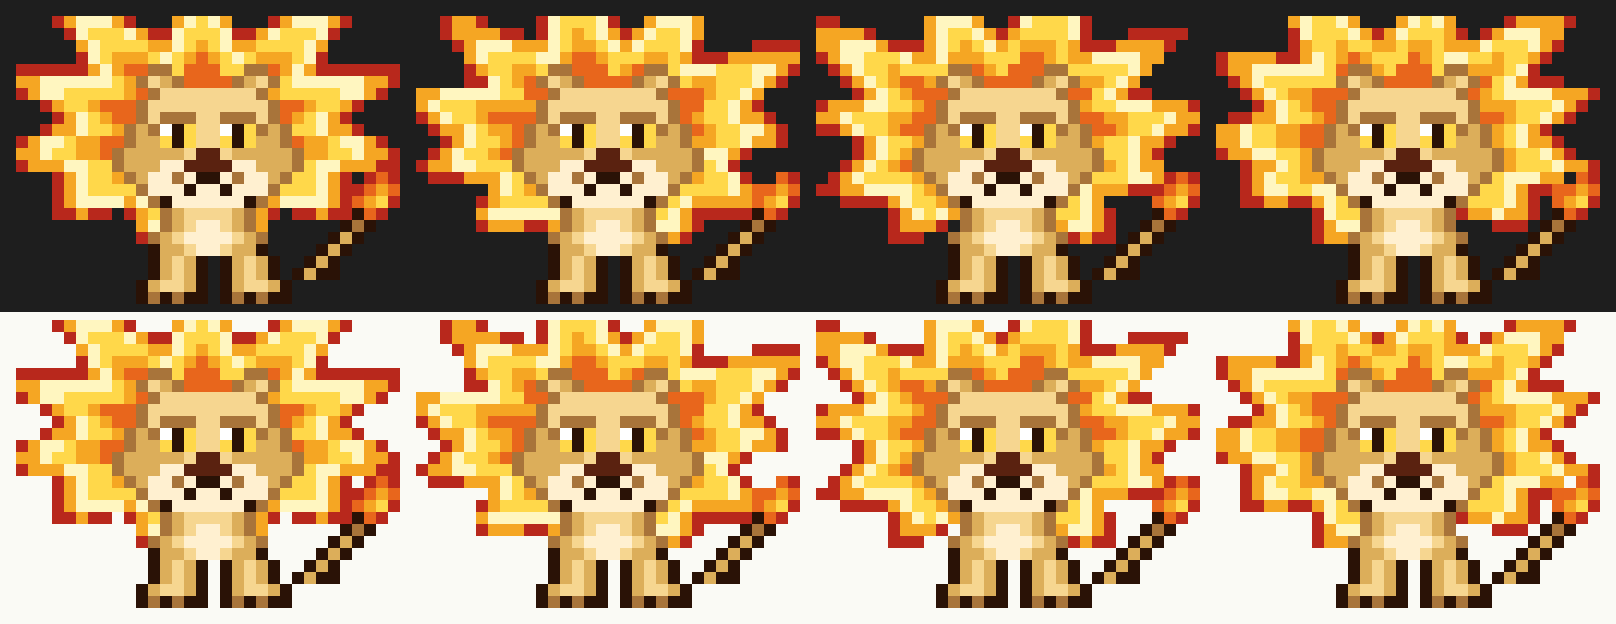
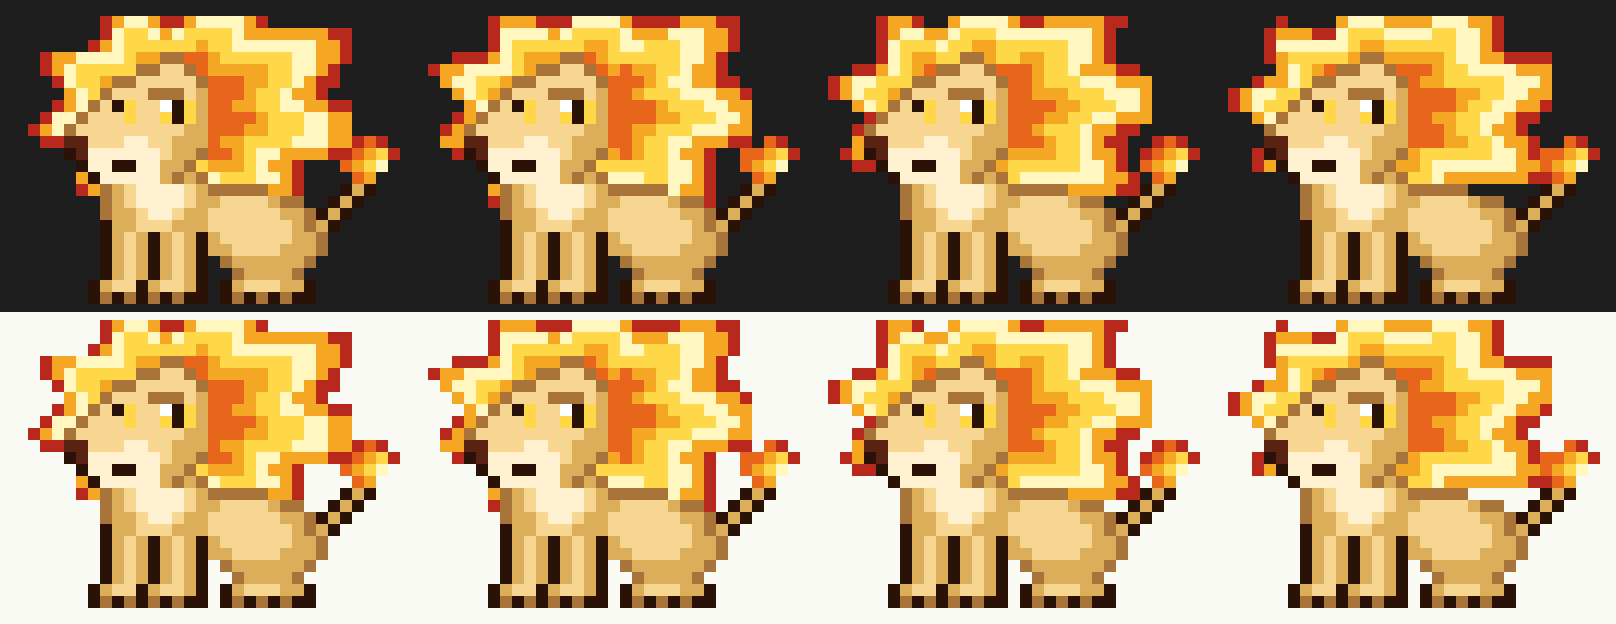
P2-16: raise the proposed limit to 48×48; evidence uses the 3/4 Sunmane

diff --git a/docs/decisions/0021-sprites-up-to-48x48.md b/docs/decisions/0021-sprites-up-to-48x48.md
@@ -1,4 +1,4 @@
-# 0021 — Sprites up to 32×24; the compact band shows when they don't fit
+# 0021 — Sprites up to 48×48; the compact band shows when they don't fit
 
 - **Status:** Proposed — settled by @danielpg95 (amends 0012 point 5)
 - **Date:** 2026-10-10
@@ -17,6 +17,9 @@ lion at 32×24 read as a lion, with a flame mane that animates well
 ([24×12](0021/sunmane-24x12.png), [32×24](0021/sunmane-32x24.png)). An earlier
 attempt (Cragmaw, a large armored beast) failed at 24×12 for the same reason.
 
+@victor-aguilars doesn't want the size to limit what Modsters can be, so this
+proposes a generous cap rather than the smallest one that fixed Sunmane.
+
 Two things make a bigger limit cheap now:
 
 - 0012 already picks the band layout by fit at draw time (points 6–8). A sprite
@@ -29,11 +32,13 @@ Two things make a bigger limit cheap now:
 
 Size:
 
-1. **32×24.** Tested with Sunmane. 12 terminal rows, fits the full band from
-   about 120×40.
-2. **32×32.** Room for tall creatures, but 16 rows, more than most panes show.
-3. **48×24.** Very wide creatures, but 48 columns plus the text block rarely
-   fits beside it.
+1. **32×24.** Tested with Sunmane. 12 terminal rows, so it fits the full band
+   from about 120×40.
+2. **48×24.** Very wide creatures. Fits the band from about 120×40, if the
+   width allows the text block beside it.
+3. **48×48.** The most room: tall and wide creatures. 24 terminal rows, more
+   than any band measured (15 at 140×40), so these always show the compact
+   band and appear as pictures only in the panes.
 
 Where a big sprite doesn't fit:
 
@@ -48,29 +53,37 @@ Who may use them: any Modster, built-in only, or built-in legendaries only.
 
 ## Decision
 
-1. **Sprites may be 8–32 px wide and 8–24 px tall, height even.** This replaces
-   the bounds in 0012 point 5. A 24 px sprite uses 12 terminal rows.
+1. **Sprites may be 8–48 px wide and 8–48 px tall, height even.** This replaces
+   the bounds in 0012 point 5. A 48 px sprite uses 24 terminal rows.
 2. **Layouts are unchanged.** 0012 points 6–8 choose by fit at every draw: the
    full layout when `ceil(height / 2) ≤ maxRows` and the sprite, the gap and the
-   text block fit the width; otherwise the compact text layout. In an 80×24 band
-   (7 rows), a sprite taller than 14 px shows the compact layout. The encounter
-   pane uses the same rule (0015 point 1).
+   text block fit the width; otherwise the compact text layout. The encounter
+   pane uses the same rule (0015 point 1) with its body rows minus its header.
+   For example:
+   - At 80×24 (7 band rows), sprites up to 14 px tall show in the band.
+   - At 140×40 (15 band rows), sprites up to 30 px tall show in the band.
+   - A 48 px tall sprite never shows in the band; the pane needs about 26 body
+     rows for it.
 3. **Any Modster may use the bigger size,** built-in or user content, with the
    same rules. User PNG sheets (0016) follow the same bounds.
 4. **No second sprite.** A Modster has one sprite; where it doesn't fit, the
    compact text layout shows.
 5. **Small stays the default.** Content guidance (the `add-modster` skill)
-   recommends ≤ 24×12 so the sprite shows in the band of an 80×24 terminal, and
-   the bigger size for Modsters that need it, such as legendaries.
+   recommends ≤ 24×12 so the sprite shows in the band of an 80×24 terminal. It
+   suggests bigger sizes for Modsters that need them, such as legendaries, and
+   says where each size shows.
 6. `schemaVersion` stays `1`: every existing sprite stays valid.
 
 ## Consequences
 
 - New roadmap task P2-16: `CONTENT.sprite` bounds, which drive the validator,
-  the converter (`tools/sprite.mjs`) and the PNG decoder (0016). It adds tests
-  for a 32×24 sprite: valid, converted, the compact band at `maxRows` 7, the
-  full band at 15, and full size in the encounter pane. CONTENT_FORMAT.md and
-  the `add-modster` skill change too.
-- In small terminals, a big Modster shows no picture in the band. Players who
-  want to see it can open the encounter pane (`/modsters hunt`).
+  the converter (`tools/sprite.mjs`) and the PNG decoder (0016). Tests cover a
+  48×48 sprite: valid and converted; the compact band at `maxRows` 7 and 15;
+  full size in a pane with enough rows; compact in a shorter pane.
+  CONTENT_FORMAT.md and the `add-modster` skill change too.
+- The biggest Modsters are seen only by players who open the encounter pane
+  (`/modsters hunt`) in a tall terminal; everyone else sees the compact band.
+- Animation repaints more cells (48×24 per frame instead of 24×6). P1-03
+  measured smooth blits at 6–12 fps for small sprites; P2-16 checks a 48×48
+  sprite at 8 fps by hand.
 - If accepted, 0012's status line becomes "Accepted (amended by 0021)".

diff --git a/docs/ROADMAP.md b/docs/ROADMAP.md
@@ -253,14 +253,16 @@ Goal: a complete, fun encounter loop with starter content. No customization yet.
   - [ ] `session.start` and `classic.SessionStart` reopen the pane when `open` is true, without focus; tested, including an unplaced pane (band keeps the encounter).
 
 
-#### [ ] P2-16 — Sprites up to 32×24
+#### [ ] P2-16 — Sprites up to 48×48
 - **Depends on:** P2-01, P2-02, P2-07, P4-01
 - **Size:** S
-- **Goal:** decision 0021 (Proposed; start only once @danielpg95 accepts it): sprites may be 8–32 wide and 8–24 tall, and the band shows its compact layout where they don't fit.
+- **Goal:** decision 0021 (Proposed; start only once @danielpg95 accepts it): sprites may be 8–48 wide and 8–48 tall, and the band and pane show their compact layout where a sprite doesn't fit.
 - **Done when:**
-  - [ ] `CONTENT.sprite` bounds are 8–32 × 8–24; the validator, `tools/sprite.mjs` and user PNG sheets accept a 32×24 sprite and reject 34×24 and 32×26 (tests).
-  - [ ] Render tests: a 32×24 sprite shows the compact band at `maxRows` 7, the full band at 15, and full size in the encounter pane.
-  - [ ] CONTENT_FORMAT.md and the `add-modster` skill describe the new bounds and recommend ≤ 24×12 unless a Modster needs more.
+  - [ ] `CONTENT.sprite` bounds are 8–48 × 8–48; the validator, `tools/sprite.mjs` and user PNG sheets accept a 48×48 sprite and reject 50×48 and 48×50 (tests).
+  - [ ] Render tests: a 48×48 sprite shows the compact band at `maxRows` 7 and 15, full size in a pane with 26 body rows, and compact in a shorter pane.
+  - [ ] A 48×48 sprite animates at 8 fps without flicker in a real terminal (checked by hand, noted in the handoff).
+  - [ ] CONTENT_FORMAT.md and the `add-modster` skill describe the bounds, where each size shows, and recommend ≤ 24×12 unless a Modster needs more.
+
 ---
 
 ## Phase 3 — Collection pane

diff --git a/docs/sessions/2026-10-10-victor-aguilars-general.md b/docs/sessions/2026-10-10-victor-aguilars-general.md
@@ -22,7 +22,8 @@ Test the limits of what a Modster can look like by designing a legendary, then a
 
 ## Decisions made
 
-- @victor-aguilars chose to propose bigger sprites: up to 32×24, the compact text band where a sprite doesn't fit, and allowed for any Modster.
+- @victor-aguilars chose to propose bigger sprites: first up to 32×24, then raised to 48×48 ("I don't want to limit creativity"). Where a sprite doesn't fit, the compact text band shows. Any Modster may use them.
+- @victor-aguilars picked the three-quarter pose version of Sunmane as the one to use, not the front-facing v5.
 - Claude drafted the rest of 0021:
   - Only 0012 point 5's bounds change, because points 6–8 already choose a layout by fit.
   - No second sprite per Modster.

diff --git a/docs/decisions/README.md b/docs/decisions/README.md
@@ -34,4 +34,4 @@ settled questions and avoid making assumptions about open ones.
 | [0018](0018-background-agents-count-as-work.md) | Background subagents count as work time for the spawn countdown | Accepted |
 | [0019](0019-reopen-encounter-pane.md) | The encounter pane reopens for people who opened it, until they close it by hand | Accepted |
 | [0020](0020-run-from-an-encounter.md) | The player can run from an encounter with `2: Run` | Accepted |
-| [0021](0021-sprites-up-to-32x24.md) | Sprites up to 32×24; the compact band shows when they don't fit | Proposed |
+| [0021](0021-sprites-up-to-48x48.md) | Sprites up to 48×48; the compact band shows when they don't fit | Proposed |

diff --git a/docs/WORKBOARD.md b/docs/WORKBOARD.md
@@ -23,5 +23,5 @@ Tasks whose dependencies are all done, so they can be claimed now. Update this
 list when you finish a task.
 
 - **P2-14** — Reopen the encounter pane
-- **P2-16** — Sprites up to 32×24 (waits for decision 0021 to be accepted)
+- **P2-16** — Sprites up to 48×48 (waits for decision 0021 to be accepted)
 - **P4-04** — User-facing content skill
